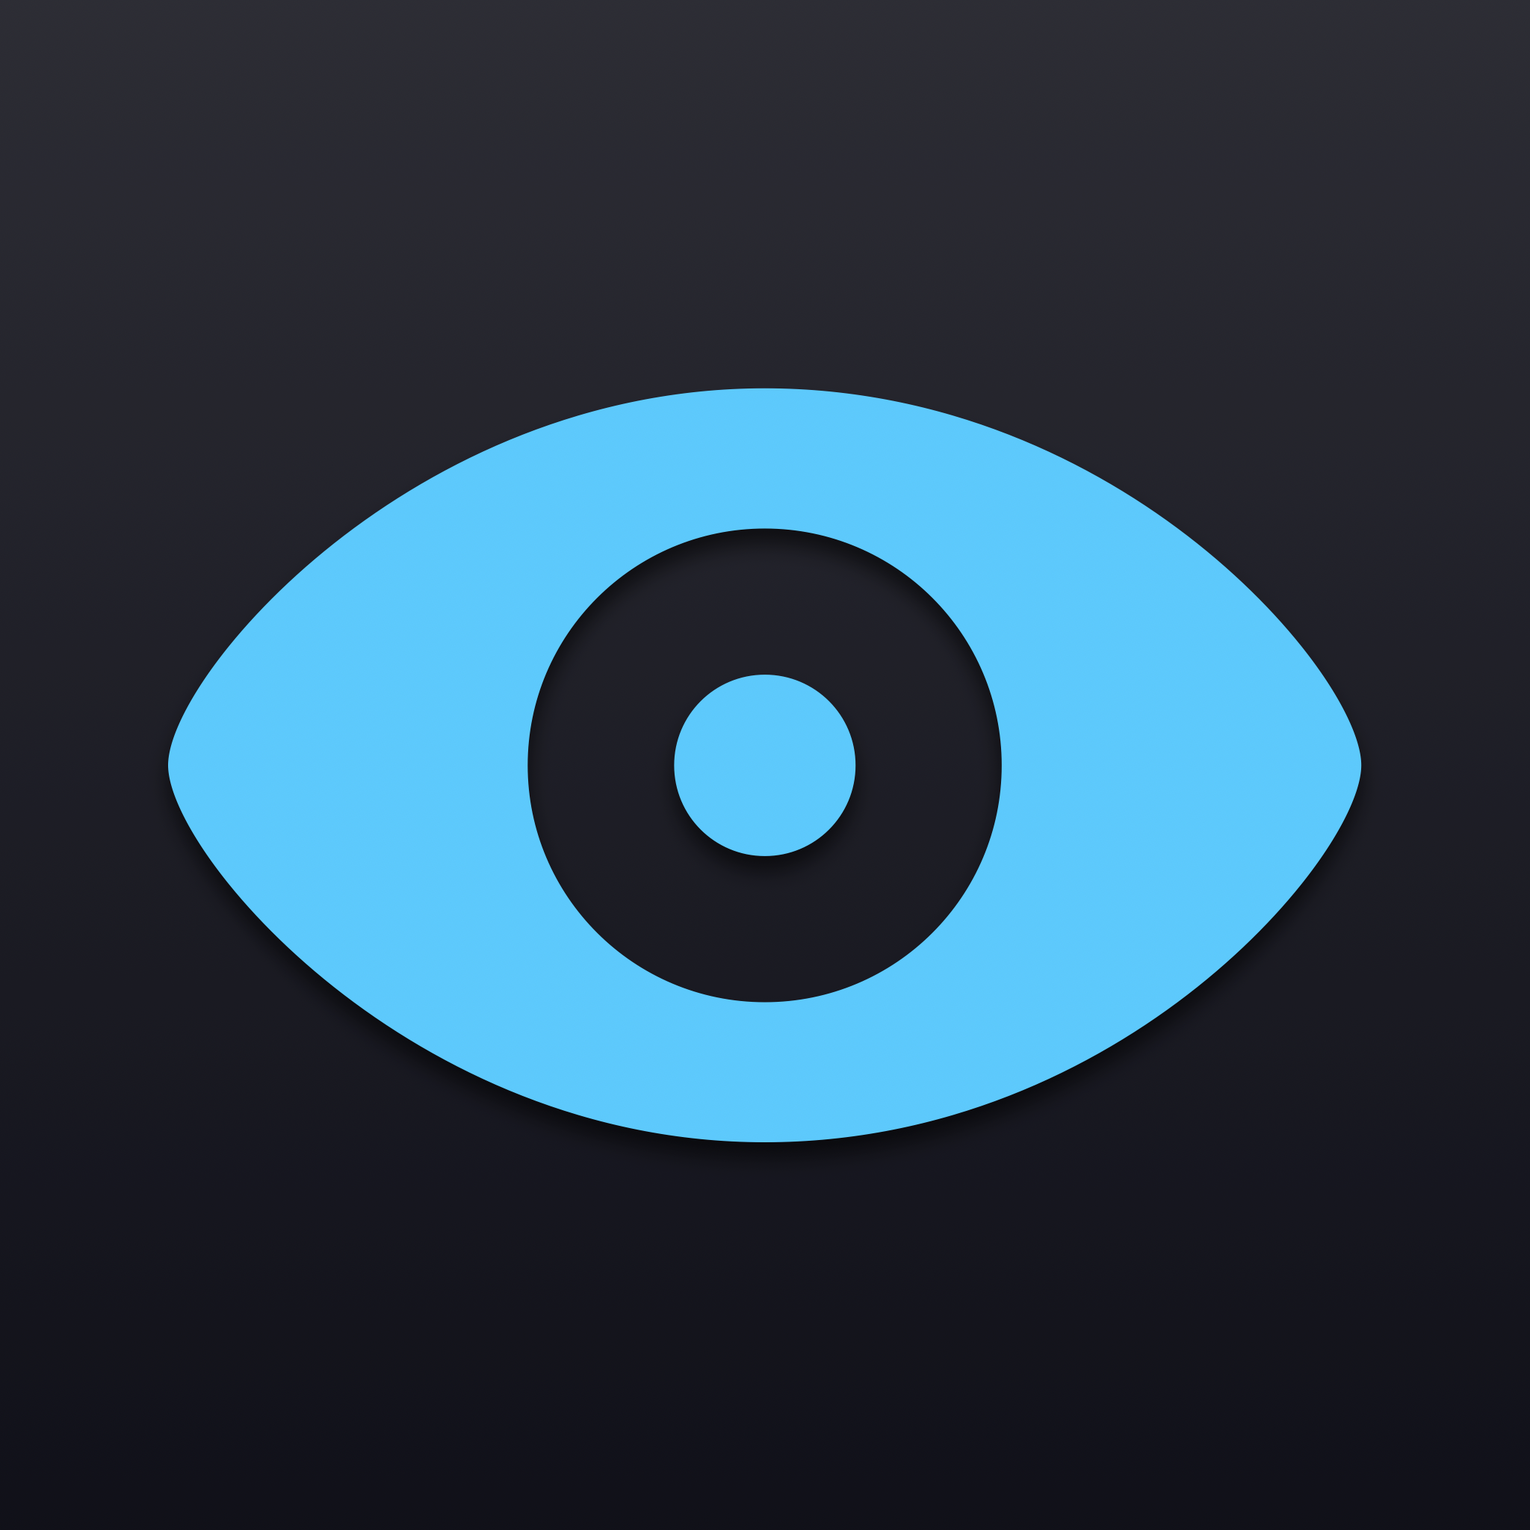
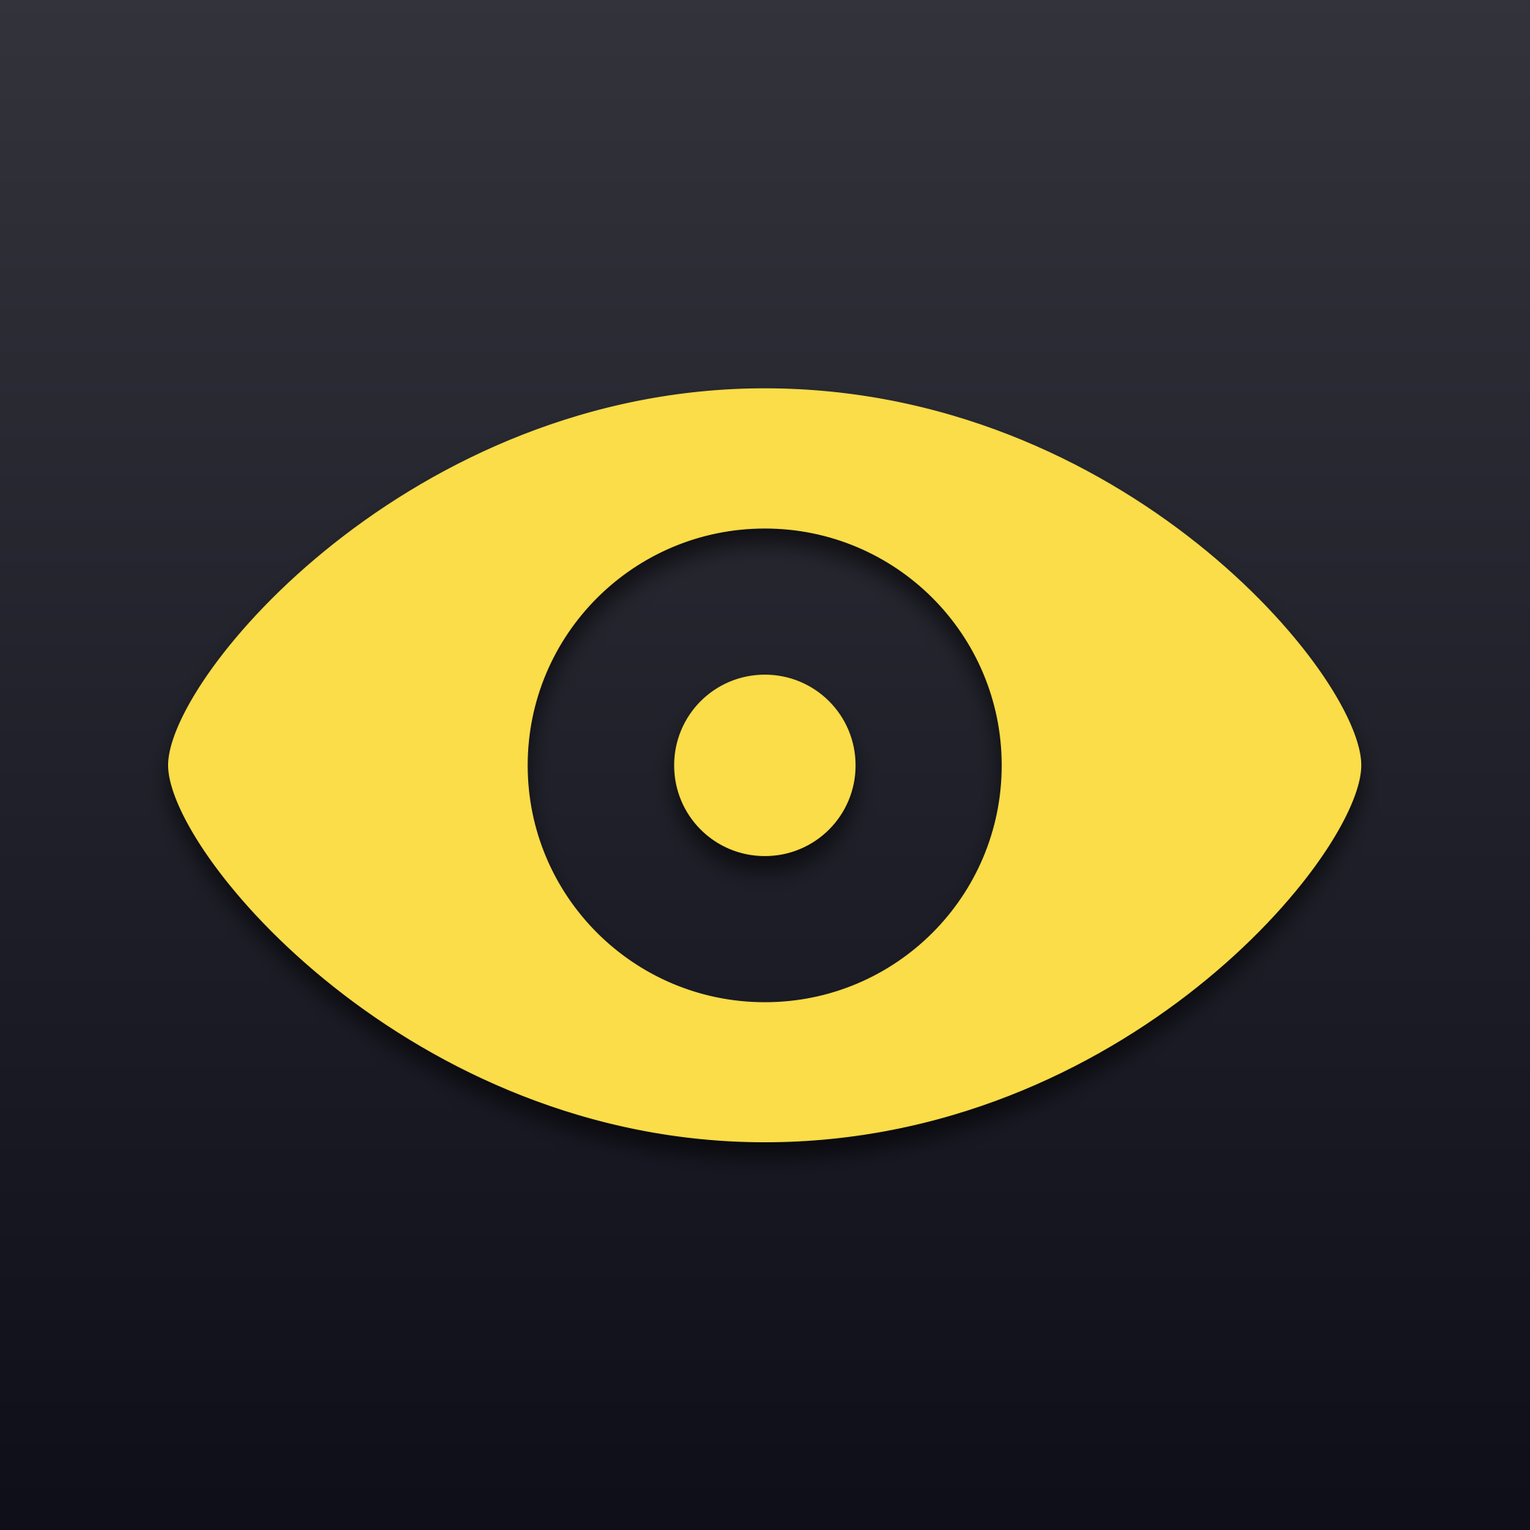
Release v2.2.3 (321)

Changed region(s): [[0.0938, 0.25, 0.9062, 0.75], [0.4375, 0.4375, 0.5625, 0.5625]]

diff --git a/SwiftApp/Sources/Translations.swift b/SwiftApp/Sources/Translations.swift
@@ -217,6 +217,12 @@ enum Translations {
             "shortcutLabel": "Raccourci clavier global",
             "shortcutRecordPlaceholder": "Cliquez pour enregistrer...",
             "shortcutRecording": "Appuyez sur les touches...",
+            "assets": "Fichiers joints",
+            "downloadingAsset": "Téléchargement de {filename}...",
+            "downloadComplete": "{filename} téléchargé",
+            "downloadFailed": "Échec du téléchargement de {filename}",
+            "tabNotes": "Notes",
+            "tabAssets": "Fichiers",
         ],
         "de": [
             "addingRepo": "Füge {repo} hinzu...",
@@ -283,6 +289,12 @@ enum Translations {
             "shortcutLabel": "Globaler Tastaturkurzbefehl",
             "shortcutRecordPlaceholder": "Klicken zum Aufnehmen...",
             "shortcutRecording": "Tasten drücken...",
+            "assets": "Anhänge",
+            "downloadingAsset": "{filename} wird heruntergeladen...",
+            "downloadComplete": "{filename} heruntergeladen",
+            "downloadFailed": "Fehler beim Herunterladen von {filename}",
+            "tabNotes": "Notizen",
+            "tabAssets": "Dateien",
         ],
         "it": [
             "addingRepo": "Aggiunta di {repo}...",
@@ -349,6 +361,12 @@ enum Translations {
             "shortcutLabel": "Scorciatoia globale",
             "shortcutRecordPlaceholder": "Clicca per registrare...",
             "shortcutRecording": "Premi i tasti...",
+            "assets": "Allegati",
+            "downloadingAsset": "Download di {filename}...",
+            "downloadComplete": "{filename} scaricato",
+            "downloadFailed": "Errore nel download di {filename}",
+            "tabNotes": "Note",
+            "tabAssets": "File",
         ],
         "pt": [
             "addingRepo": "Adicionando {repo}...",
@@ -414,6 +432,12 @@ enum Translations {
             "shortcutLabel": "Atalho de teclado global",
             "shortcutRecordPlaceholder": "Clique para gravar...",
             "shortcutRecording": "Pressione as teclas...",
+            "assets": "Anexos",
+            "downloadingAsset": "Baixando {filename}...",
+            "downloadComplete": "{filename} baixado",
+            "downloadFailed": "Falha ao baixar {filename}",
+            "tabNotes": "Notas",
+            "tabAssets": "Arquivos",
         ],
          "zh": [
             "addingRepo": "正在添加 {repo}...",
@@ -479,6 +503,12 @@ enum Translations {
             "shortcutLabel": "全局快捷键",
             "shortcutRecordPlaceholder": "点击录制...",
             "shortcutRecording": "按键盘按键...",
+            "assets": "附件",
+            "downloadingAsset": "正在下载 {filename}...",
+            "downloadComplete": "已下载 {filename}",
+            "downloadFailed": "下载 {filename} 失败",
+            "tabNotes": "说明",
+            "tabAssets": "文件",
         ],
         "hi": [
             "addingRepo": "{repo} जोड़ा जा रहा है...",
@@ -544,6 +574,12 @@ enum Translations {
             "shortcutLabel": "ग्लोबल शॉर्टकट",
             "shortcutRecordPlaceholder": "रिकॉर्ड करने के लिए क्लिक करें...",
             "shortcutRecording": "कुंजियाँ दबाएँ...",
+            "assets": "संलग्नक",
+            "downloadingAsset": "{filename} डाउनलोड हो रहा है...",
+            "downloadComplete": "{filename} डाउनलोड हो गया",
+            "downloadFailed": "{filename} डाउनलोड विफल",
+            "tabNotes": "नोट्स",
+            "tabAssets": "फ़ाइलें",
         ],
         "ar": [
             "addingRepo": "جاري إضافة {repo}...",
@@ -609,6 +645,12 @@ enum Translations {
             "shortcutLabel": "إختصار لوحة المفاتيح العالمي",
             "shortcutRecordPlaceholder": "انقر للتسجيل...",
             "shortcutRecording": "اضغط على المفاتيح...",
+            "assets": "المرفقات",
+            "downloadingAsset": "جاري تنزيل {filename}...",
+            "downloadComplete": "تم تنزيل {filename}",
+            "downloadFailed": "فشل تنزيل {filename}",
+            "tabNotes": "ملاحظات",
+            "tabAssets": "ملفات",
         ],
         "ru": [
             "addingRepo": "Добавление {repo}...",
@@ -674,6 +716,12 @@ enum Translations {
             "shortcutLabel": "Глобальное сочетание клавиш",
             "shortcutRecordPlaceholder": "Нажмите для записи...",
             "shortcutRecording": "Нажмите клавиши...",
+            "assets": "Вложения",
+            "downloadingAsset": "Загрузка {filename}...",
+            "downloadComplete": "{filename} загружен",
+            "downloadFailed": "Ошибка загрузки {filename}",
+            "tabNotes": "Заметки",
+            "tabAssets": "Файлы",
         ],
         "ja": [
             "addingRepo": "{repo} を追加中...",
@@ -739,6 +787,12 @@ enum Translations {
             "shortcutLabel": "グローバル ショートカット",
             "shortcutRecordPlaceholder": "クリックして記録...",
             "shortcutRecording": "キーを押してください...",
+            "assets": "添付ファイル",
+            "downloadingAsset": "{filename} をダウンロード中...",
+            "downloadComplete": "{filename} をダウンロードしました",
+            "downloadFailed": "{filename} のダウンロードに失敗しました",
+            "tabNotes": "ノート",
+            "tabAssets": "ファイル",
         ],
     ]
     

diff --git a/SwiftApp/Sources/RepoCoordinator.swift b/SwiftApp/Sources/RepoCoordinator.swift
@@ -318,7 +318,8 @@ class RepoCoordinator {
             } else {
                 // If no brew, we can't do anything with a single name
                 await MainActor.run {
-                    delegate?.sendNotification(title: Translations.get("error"), subtitle: Translations.get("repoNotFound"))
+                    HUDPanel.shared.showCompletion(title: Translations.get("error"), subtitle: Translations.get("repoNotFound"), isSuccess: false)
+                    delegate?.animateStatusIcon(with: .wiggle)
                 }
                 return false
             }
@@ -341,7 +342,8 @@ class RepoCoordinator {
                     return true
                 } else {
                     await MainActor.run {
-                        delegate.sendNotification(title: Translations.get("error"), subtitle: Translations.get("repoExists"))
+                        HUDPanel.shared.showCompletion(title: Translations.get("error"), subtitle: Translations.get("repoExists"), isSuccess: false)
+                        delegate.animateStatusIcon(with: .wiggle)
                     }
                     return false
                 }
@@ -352,7 +354,8 @@ class RepoCoordinator {
         let info = await GitHubAPI.shared.fetchRepoInfo(repo: repoName)
         if let errorMsg = info.error {
             await MainActor.run {
-                delegate.sendNotification(title: Translations.get("error"), subtitle: errorMsg)
+                HUDPanel.shared.showCompletion(title: Translations.get("error"), subtitle: errorMsg, isSuccess: false)
+                delegate.animateStatusIcon(with: .wiggle)
             }
             return false
         } else {
@@ -372,6 +375,7 @@ class RepoCoordinator {
                 delegate.updatePopularTagsCache()
                 delegate.rebuildMenu()
                 delegate.animateStatusIcon(with: .bounce)
+                HUDPanel.shared.showCompletion(title: Translations.get("add"), subtitle: repoName, isSuccess: true)
                 
                 UserDefaults.standard.set(true, forKey: "HasUnreadPulse")
                 delegate.updateStatusIcon(hasUpdates: true)
@@ -386,7 +390,8 @@ class RepoCoordinator {
         // Early check: if any repo already has this cask, show duplicate message
         if ConfigManager.shared.config.repos.contains(where: { $0.cask?.lowercased() == caskName.lowercased() }) {
             await MainActor.run {
-                delegate.sendNotification(title: Translations.get("error"), subtitle: Translations.get("repoExists"))
+                HUDPanel.shared.showCompletion(title: Translations.get("error"), subtitle: Translations.get("repoExists"), isSuccess: false)
+                delegate.animateStatusIcon(with: .wiggle)
             }
             return false
         }
@@ -406,7 +411,8 @@ class RepoCoordinator {
                     } else {
                         msg = Translations.get("brewRepoNotFound").format(with: ["app_name": caskName])
                     }
-                    delegate.sendNotification(title: Translations.get("brewErrorTitle"), subtitle: msg)
+                    HUDPanel.shared.showCompletion(title: Translations.get("brewErrorTitle"), subtitle: msg, isSuccess: false)
+                    delegate.animateStatusIcon(with: .wiggle)
                 }
                 return false
             }
@@ -439,14 +445,16 @@ class RepoCoordinator {
                     return await addRepo(repoName: r, source: "brew", cask: caskName)
                 } else {
                     await MainActor.run {
-                        delegate.sendNotification(title: Translations.get("brewErrorTitle"), subtitle: Translations.get("brewRepoNotFound").format(with: ["app_name": caskName]))
+                        HUDPanel.shared.showCompletion(title: Translations.get("brewErrorTitle"), subtitle: Translations.get("brewRepoNotFound").format(with: ["app_name": caskName]), isSuccess: false)
+                        delegate.animateStatusIcon(with: .wiggle)
                     }
                     return false
                 }
             }
         } catch {
             await MainActor.run {
-                delegate.sendNotification(title: Translations.get("brewErrorTitle"), subtitle: Translations.get("brewRepoNotFound").format(with: ["app_name": caskName]))
+                HUDPanel.shared.showCompletion(title: Translations.get("brewErrorTitle"), subtitle: Translations.get("brewRepoNotFound").format(with: ["app_name": caskName]), isSuccess: false)
+                delegate.animateStatusIcon(with: .wiggle)
             }
         }
         return false

diff --git a/SwiftApp/Sources/ReleaseNotesWindowController.swift b/SwiftApp/Sources/ReleaseNotesWindowController.swift
@@ -255,7 +255,7 @@ class ReleaseNotesViewController: NSViewController, NSTextViewDelegate {
         textView.isSelectable = true
         textView.drawsBackground = false
         textView.textColor = .labelColor
-        textView.textContainerInset = NSSize(width: 20, height: 10)
+        textView.textContainerInset = NSSize(width: 25, height: 10)
         textView.textContainer?.lineFragmentPadding = 0
         textView.textContainer?.widthTracksTextView = true
         textView.isVerticallyResizable = true
@@ -268,7 +268,7 @@ class ReleaseNotesViewController: NSViewController, NSTextViewDelegate {
         assetsContainerView.orientation = .vertical
         assetsContainerView.alignment = .centerX
         assetsContainerView.spacing = 6
-        assetsContainerView.edgeInsets = NSEdgeInsets(top: 8, left: 20, bottom: 8, right: 20)
+        assetsContainerView.edgeInsets = NSEdgeInsets(top: 8, left: 0, bottom: 8, right: 0)
         assetsContainerView.translatesAutoresizingMaskIntoConstraints = false
         
         assetsScrollView = NSScrollView()
@@ -776,7 +776,7 @@ class ReleaseNotesViewController: NSViewController, NSTextViewDelegate {
                 rowStack.bottomAnchor.constraint(equalTo: row.bottomAnchor),
                 rowStack.leadingAnchor.constraint(equalTo: row.leadingAnchor),
                 rowStack.trailingAnchor.constraint(equalTo: row.trailingAnchor),
-                row.widthAnchor.constraint(equalTo: assetsContainerView.widthAnchor, constant: -40)
+                row.widthAnchor.constraint(equalTo: assetsContainerView.widthAnchor, constant: -50)
             ])
             
             // Icon
@@ -987,6 +987,17 @@ class ReleaseNotesTextView: NSTextView {
     override func resetCursorRects() {
         discardCursorRects()
         addCursorRect(bounds, cursor: .arrow)
+    }
+    
+    /// Shifts the text container origin to the right by half the scroller width
+    /// so that text, images, and tables appear visually centered between the
+    /// header/footer cards, regardless of the scroller style (overlay or legacy).
+    override var textContainerOrigin: NSPoint {
+        var origin = super.textContainerOrigin
+        if let scroller = enclosingScrollView?.verticalScroller {
+            origin.x += scroller.frame.width / 2.0
+        }
+        return origin
     }
 }
 

diff --git a/SwiftApp/Sources/AppDelegate.swift b/SwiftApp/Sources/AppDelegate.swift
@@ -177,6 +177,43 @@ class AppDelegate: NSObject, NSApplicationDelegate, NSSearchFieldDelegate, NSPop
             let modifiers = NSEvent.ModifierFlags(rawValue: UInt(savedModifiers))
             GlobalHotkeyManager.shared.register(keyCode: savedKeyCode, modifiers: modifiers)
         }
+        
+        // Register URL Scheme Handler (mino://)
+        NSAppleEventManager.shared().setEventHandler(
+            self,
+            andSelector: #selector(handleURLEvent(_:withReply:)),
+            forEventClass: AEEventClass(kInternetEventClass),
+            andEventID: AEEventID(kAEGetURL)
+        )
+    }
+    
+    @objc private func handleURLEvent(_ event: NSAppleEventDescriptor, withReply reply: NSAppleEventDescriptor) {
+        guard let urlString = event.paramDescriptor(forKeyword: AEKeyword(keyDirectObject))?.stringValue,
+              let url = URL(string: urlString) else { return }
+        
+        guard url.scheme?.lowercased() == "mino" else { return }
+        
+        // Handle formats: mino://add/<target> or mino://<target>
+        var rawTarget = ""
+        if url.host?.lowercased() == "add" {
+            rawTarget = url.path.trimmingCharacters(in: CharacterSet(charactersIn: "/"))
+        } else if let host = url.host, !host.isEmpty {
+            rawTarget = host + url.path
+        } else {
+            rawTarget = url.path.trimmingCharacters(in: CharacterSet(charactersIn: "/"))
+        }
+        
+        // Clean up URL prefix if someone passes https://github.com/... or github.com/...
+        rawTarget = rawTarget.replacingOccurrences(of: "https://github.com/", with: "", options: .caseInsensitive)
+        rawTarget = rawTarget.replacingOccurrences(of: "http://github.com/", with: "", options: .caseInsensitive)
+        rawTarget = rawTarget.replacingOccurrences(of: "github.com/", with: "", options: .caseInsensitive)
+        rawTarget = rawTarget.trimmingCharacters(in: .whitespacesAndNewlines)
+        
+        guard !rawTarget.isEmpty else { return }
+        
+        Task {
+            _ = await self.repoCoordinator.addRepoSmart(repoName: rawTarget)
+        }
     }
     
     @objc private func configDidUpdate() {

diff --git a/SwiftApp/Sources/RefreshCoordinator.swift b/SwiftApp/Sources/RefreshCoordinator.swift
@@ -85,6 +85,10 @@ class RefreshCoordinator {
         if isRefreshing { return }
         isRefreshing = true
         
+        // Record the refresh timestamp NOW (at trigger time) so the next cycle
+        // is anchored to this exact moment, eliminating accumulated drift.
+        self.lastRefreshTime = Date()
+        
         delegate.footerView?.updateTimeText(Translations.get("refreshing"), isRefreshing: true)
         delegate.refreshQuickAddState()
         delegate.animateStatusIcon(with: .rotate)
@@ -181,7 +185,6 @@ class RefreshCoordinator {
             }
             
             self.isRefreshing = false
-            self.lastRefreshTime = Date()
             
             // Release accumulated HTTP connection pools, TLS session tickets,
             // and internal Foundation caches that grow over days of continuous use.

diff --git a/SwiftApp/Sources/HUDPanel.swift b/SwiftApp/Sources/HUDPanel.swift
@@ -176,6 +176,13 @@ class HUDPanel: NSPanel {
         subtitleLabel.stringValue = subtitle
         subtitleLabel.isHidden = subtitle.isEmpty
         
+        // Ensure the panel is visible and positioned even when called standalone
+        // (not preceded by showProgress).
+        self.center()
+        self.alphaValue = 1.0
+        self.orderFrontRegardless()
+        presentationToken = UUID()
+        
         hideTimer?.invalidate()
         let newTimer = Timer(timeInterval: duration, repeats: false) { [weak self] _ in
             Task { @MainActor [weak self] in

diff --git a/SwiftApp/Sources/GeneratedColor.swift b/SwiftApp/Sources/GeneratedColor.swift
@@ -3,5 +3,5 @@
 import Cocoa
 
 struct AppPersonality {
-    static let color = NSColor(calibratedRed: 0.23529411764705882, green: 0.8274509803921568, blue: 0.996078431372549, alpha: 1.0)
+    static let color = NSColor(calibratedRed: 1.0, green: 0.8607969880104065, blue: 0.0, alpha: 1.0)
 }

diff --git a/CHANGELOG.md b/CHANGELOG.md
@@ -5,6 +5,17 @@ All notable changes to Mino will be documented in this file.
 The format is based on [Keep a Changelog](https://keepachangelog.com/en/1.0.0/),
 and this project adheres to [Semantic Versioning](https://semver.org/spec/v2.0.0.html).
 
+## [2.2.3] - 2026-08-05
+
+### Added
+- **Custom URL Scheme (`mino://`)**: Added support for external automation tools (PopClip, Alfred, Raycast, Shortcuts, terminal scripts) to trigger repository additions via `mino://add/<owner/repo>`, `mino://add/<cask>` or full GitHub URLs.
+- **Success & Completion HUDPanels**: Unified repository addition feedback with styled HUDPanels featuring success (`checkmark.circle.fill`) and error (`exclamationmark.triangle.fill`) SF Symbol icons.
+- **Complete i18n Localization Coverage**: Added missing asset and tab translation strings across 9 languages (fr, de, it, pt, zh, hi, ar, ru, ja).
+
+### Fixed
+- **Timer Refresh Drift**: Fixed accumulated drift in automatic refresh cycles by capturing `lastRefreshTime` at the start of refresh trigger execution rather than after network requests complete.
+- **Release Notes & Assets Container Margin Symmetry**: Centered release notes text/images/tables and asset rows with uniform 25px container margins and vertical scroller width compensation.
+
 ## [2.2.2] - 2026-08-03
 
 ### Added

diff --git a/README.md b/README.md
@@ -82,6 +82,12 @@ Click the `(+)` button in the menu to open the floating Window.
 - Go to your browser, copy a URL (`CMD+C`). Watch Mino automatically catch the link. Click the Add button.
 - The window remains open and the text field clears. Cycle through your browser tabs, copying and adding rapidly.
 
+**Automation & URL Scheme (`mino://`):**
+Integrate Mino with macOS Shortcuts, PopClip, Alfred, Raycast, or custom scripts:
+- `mino://add/owner/repo` (e.g. `mino://add/nad-bit/mino`)
+- `mino://add/cask_name` (e.g. `mino://add/firefox`)
+- `mino://add/https://github.com/owner/repo`
+
 **Standard Manual Input:**
 - Enter `owner/repo` format (e.g., `microsoft/vscode`).
 - Enter a Homebrew **Cask name** (e.g., `lulu` or `stats`) to automatically resolve and track its GitHub repository. No prefixes required.
